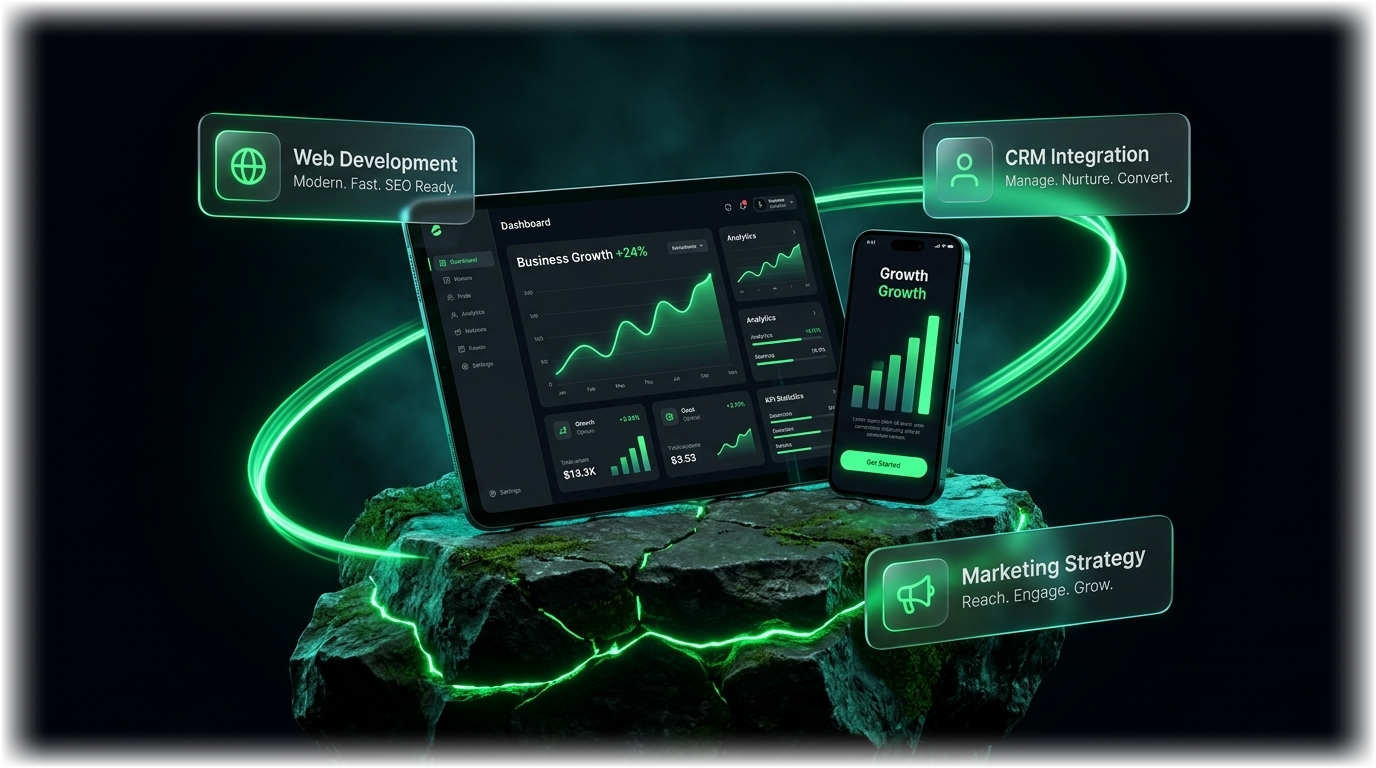
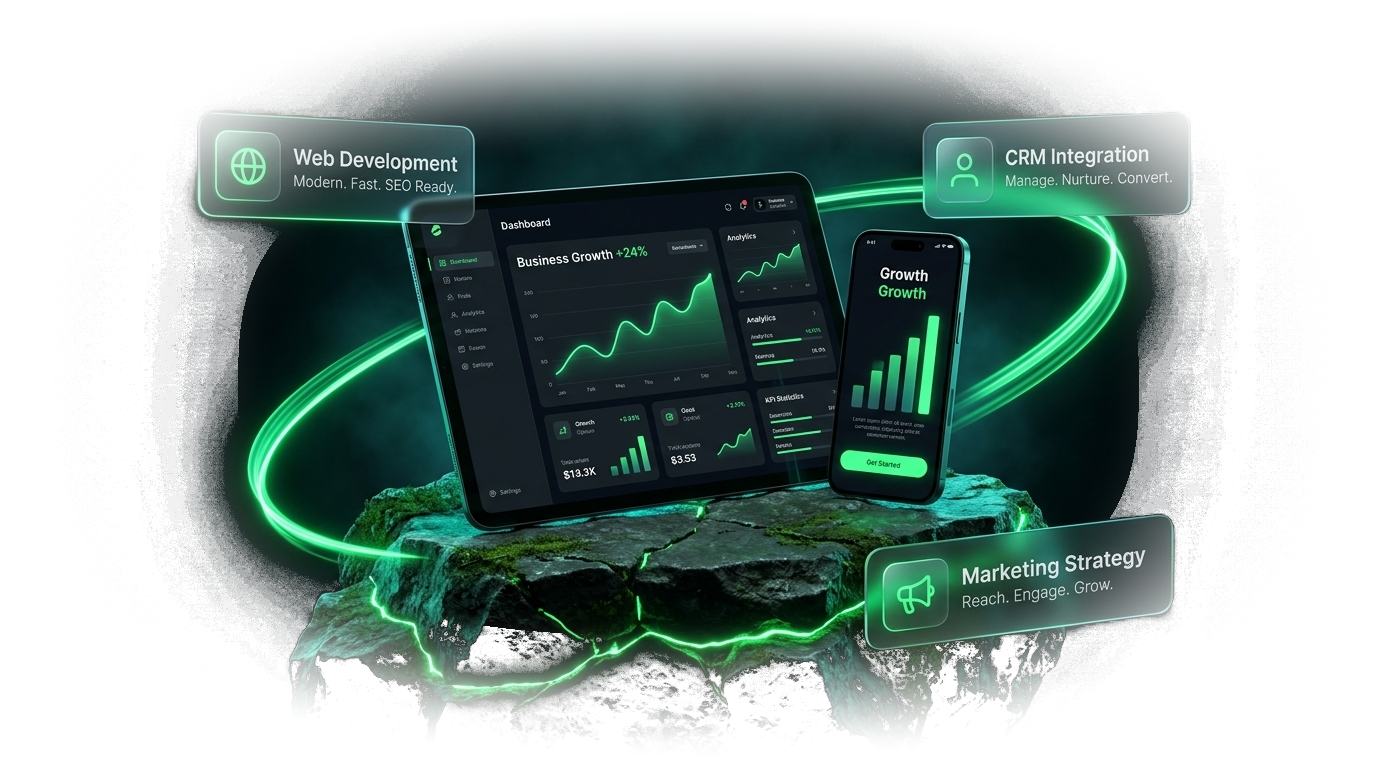
Fix hero visual integration with Web3-style seamless background blend and CSS elliptical mask

diff --git a/src/app/page.tsx b/src/app/page.tsx
@@ -209,10 +209,10 @@ export default async function HomePage() {
 
             {/* Right Column: Hero Visual Graphic */}
             <div className="lg:col-span-6 xl:col-span-7 relative w-full flex items-center justify-center lg:justify-end">
-              <div className="relative w-full max-w-[640px] lg:max-w-[740px] xl:max-w-[820px]">
+              <div className="relative w-full max-w-[560px] sm:max-w-[640px] lg:max-w-none lg:w-[108%] xl:w-[114%] lg:-mr-4 xl:-mr-8">
                 {/* Ambient glow matching the neon visual */}
                 <div
-                  className="absolute -inset-6 rounded-full bg-green/15 opacity-40 blur-3xl pointer-events-none"
+                  className="absolute top-1/2 left-1/2 -translate-x-1/2 -translate-y-1/2 w-[85%] h-[85%] rounded-full bg-[radial-gradient(ellipse_at_center,rgba(25,242,140,0.18)_0%,rgba(61,214,245,0.10)_35%,rgba(123,97,255,0.05)_60%,transparent_75%)] blur-3xl pointer-events-none -z-10"
                   aria-hidden="true"
                 />
                 <Image
@@ -221,8 +221,14 @@ export default async function HomePage() {
                   width={1376}
                   height={768}
                   priority
-                  className="relative z-10 w-full h-auto object-contain drop-shadow-[0_25px_60px_rgba(0,0,0,0.9)]"
-                  sizes="(max-width: 1024px) 100vw, (max-width: 1440px) 58vw, 820px"
+                  className="relative z-10 w-full h-auto object-contain"
+                  style={{
+                    WebkitMaskImage:
+                      'radial-gradient(ellipse 70% 70% at 50% 50%, #000 48%, rgba(0,0,0,0.85) 62%, transparent 88%)',
+                    maskImage:
+                      'radial-gradient(ellipse 70% 70% at 50% 50%, #000 48%, rgba(0,0,0,0.85) 62%, transparent 88%)',
+                  }}
+                  sizes="(max-width: 1024px) 100vw, (max-width: 1440px) 58vw, 860px"
                 />
               </div>
             </div>
